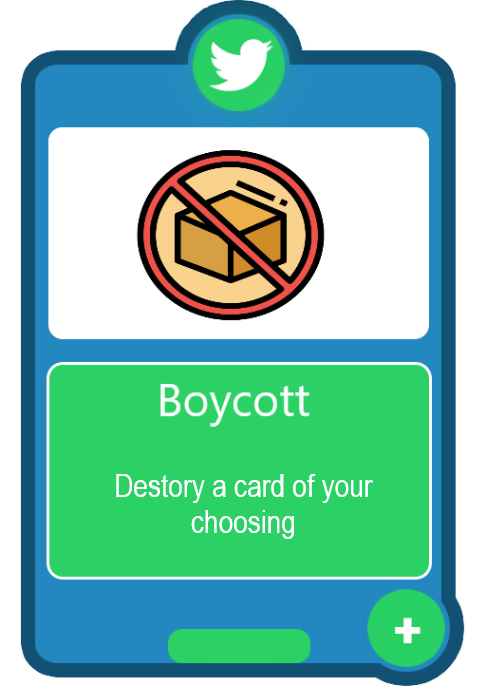
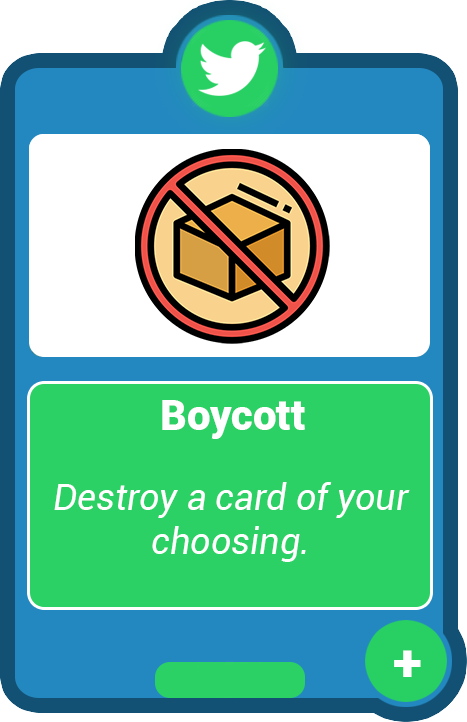
Fixes Online Posts, UN law and their AI counterparts.

diff --git a/core/src/com/xdays/game/CardGameManager.java b/core/src/com/xdays/game/CardGameManager.java
@@ -1,6 +1,8 @@
 package com.xdays.game;
 
 import java.util.ArrayList;
+import java.util.Random;
+
 import com.xdays.game.cards.Card;
 import com.xdays.game.cards.CardCollection;
 import com.xdays.game.cards.Destroy;
@@ -27,8 +29,8 @@ public class CardGameManager {
 
 	public CardGameManager (int emissionsValue, User givenUser) {
 
-		enemyDeck_1 = new String[]{"Landfill", "Remove Tree", "Remove Tree", "Remove Tree",
-				"Remove Tree", "Diesel Car", "Remove Tree", "Diesel Car"}; //"Landfill", "Landfill", "Remove Tree", "Remove Tree"
+		enemyDeck_1 = new String[]{"Cover-up", "Remove Tree", "Remove Tree", "Remove Tree",
+				"Remove Tree", "Remove Tree", "Diesel Car", "Online Posts", "Online Posts", "Online Posts", "Cover-up", "Cover-up"}; //"Landfill", "Landfill", "Remove Tree", "Remove Tree"
 
 		emissionsBar = emissionsValue;
 
@@ -71,7 +73,7 @@ public class CardGameManager {
 			System.out.println("AI's Current Hand: " + enemyAI.currentHandAsString());
 		}
 		System.out.println("AI EMISSIONS: " +aiBoard.getTotalPoints() +"Player emmisions: "+  playerBoard.getTotalPoints());
-		changeEmissions(playerBoard.getTotalPoints());
+		changeEmissions(-playerBoard.getTotalPoints());
 		changeEmissions(aiBoard.getTotalPoints());
 		switchPlayerTurn();
 	}
@@ -129,10 +131,15 @@ public class CardGameManager {
 					switch(card.getTitle()) {
 					case "Online Posts":
 						
-						
 					case "UN Law":
-						((Social) card).doEffect(playerBoard, null);
-						user.removeCard(card);
+						Random r = new Random();
+						if(r.nextBoolean()) {
+							((Social) card).doEffect(playerBoard, null, true);
+							user.removeCard(card);	
+						}else {
+							((Social) card).doEffect(aiBoard, null, false);
+							user.removeCard(card);
+						}
 						break;
 					case "Strike":
 					case "Petition":
@@ -154,8 +161,14 @@ public class CardGameManager {
 					switch(card.getTitle()) {
 					case "Online Posts":
 					case "Cover-up":
-						((Social) card).doEffect(aiBoard, null);
-						enemyAI.removeCard(card);
+						Random r = new Random();
+						if(r.nextBoolean()) {
+							((Social) card).doEffect(playerBoard, null, false);
+							user.removeCard(card);	
+						}else {
+							((Social) card).doEffect(aiBoard, null, true);
+							user.removeCard(card);
+						}
 						break;
 					case "Bribe":
 					case "Propaganda":

diff --git a/core/src/com/xdays/game/cards/Industry.java b/core/src/com/xdays/game/cards/Industry.java
@@ -33,11 +33,37 @@ public class Industry extends Card {
 	
 	public void draw(SpriteBatch sb) {
 		sb.draw(getTexture(), getX(), getY(), getBoundsWidth(), getBoundsHeight());
-		String points = Integer.toString(getPoints()).replace("-", "");
+		String points = Integer.toString(getPoints());
 		if(points.length()>1) {
-			font.draw(sb, points, getX()+getBoundsWidth()-27, getY()+22);
+			if(getPoints()<0) {
+				font.draw(sb, points, getX()+getBoundsWidth()-27, getY()+22);
+			}else {
+				font.draw(sb, points, getX()+getBoundsWidth()-27, getY()+22);
+			}
 		}else {
-			font.draw(sb, points, getX()+getBoundsWidth()-22, getY()+22);
+			if(getPoints()<0) {
+				font.draw(sb, points, getX()+getBoundsWidth()-22, getY()+22);
+			}else {
+				font.draw(sb, points, getX()+getBoundsWidth()-22, getY()+22);
+			}
+		}
+	}
+	
+	public void AiDraw(SpriteBatch sb) {
+		sb.draw(getTexture(), getX(), getY()+10, getBoundsWidth(), getBoundsHeight());
+		String points = Integer.toString(getPoints());
+		if(points.length()>1) {
+			if(getPoints()<0) {
+				font.draw(sb, points, getX()+getBoundsWidth()-27, getY()+32);
+			}else {
+				font.draw(sb, points, getX()+getBoundsWidth()-27, getY()+32);	
+			}
+		}else {
+			if(getPoints()<0) {
+				font.draw(sb, points, getX()+getBoundsWidth()-22, getY()+32);
+			}else {
+				font.draw(sb, points, getX()+getBoundsWidth()-22, getY()+32);
+			}
 		}
 	}
 	

diff --git a/core/src/com/xdays/game/cards/EditEmission.java b/core/src/com/xdays/game/cards/EditEmission.java
@@ -26,7 +26,7 @@ public class EditEmission implements SocialEffect{
 				while (!found) { //
 					ArrayList<Card> cards = board.getField();
 					int cardSize = board.getField().size();
-					System.out.println(cardSize);
+					//System.out.println(cardSize);
 					int nextRandom = rand.nextInt(cardSize);
 					c = cards.get(nextRandom); 
 				//	c = board.getField().get(rand.nextInt(board.getField().size())); // is this supposed to be one??
@@ -35,6 +35,7 @@ public class EditEmission implements SocialEffect{
 					}
 				}
 				chosenCard = c;
+				System.out.println("Applied to: " + chosenCard.getTitle() + " - Ammount:  " + amount);
 				((Industry) c).editBuff(amount);
 			} else {
 				((Industry) card).editBuff(amount);

diff --git a/core/src/com/xdays/game/cards/Social.java b/core/src/com/xdays/game/cards/Social.java
@@ -36,6 +36,14 @@ public class Social extends Card {
 		return socialEffect.doEffect(board, card, amount);
 	}
 	
+	public Board doEffect(Board board, Card card, boolean playerBoardOrAIBoard) {
+		if(playerBoardOrAIBoard) {
+			return socialEffect.doEffect(board, card, amount);
+		}else {
+			return socialEffect.doEffect(board, card, -amount);
+		}
+	}
+	
 	public SocialEffect getSocialEffect() {
 		return socialEffect;
 	}
